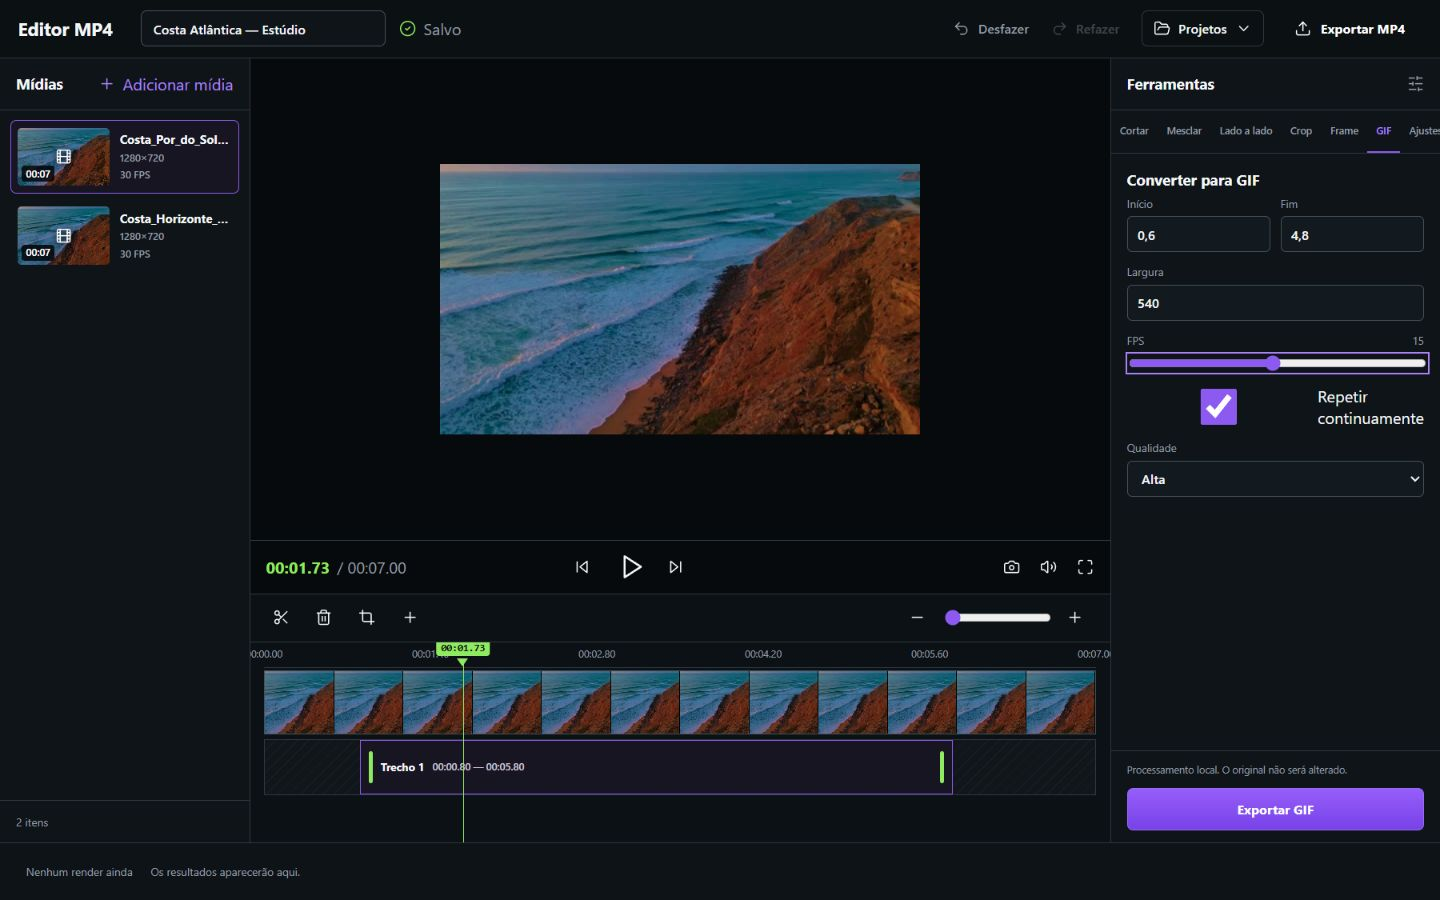
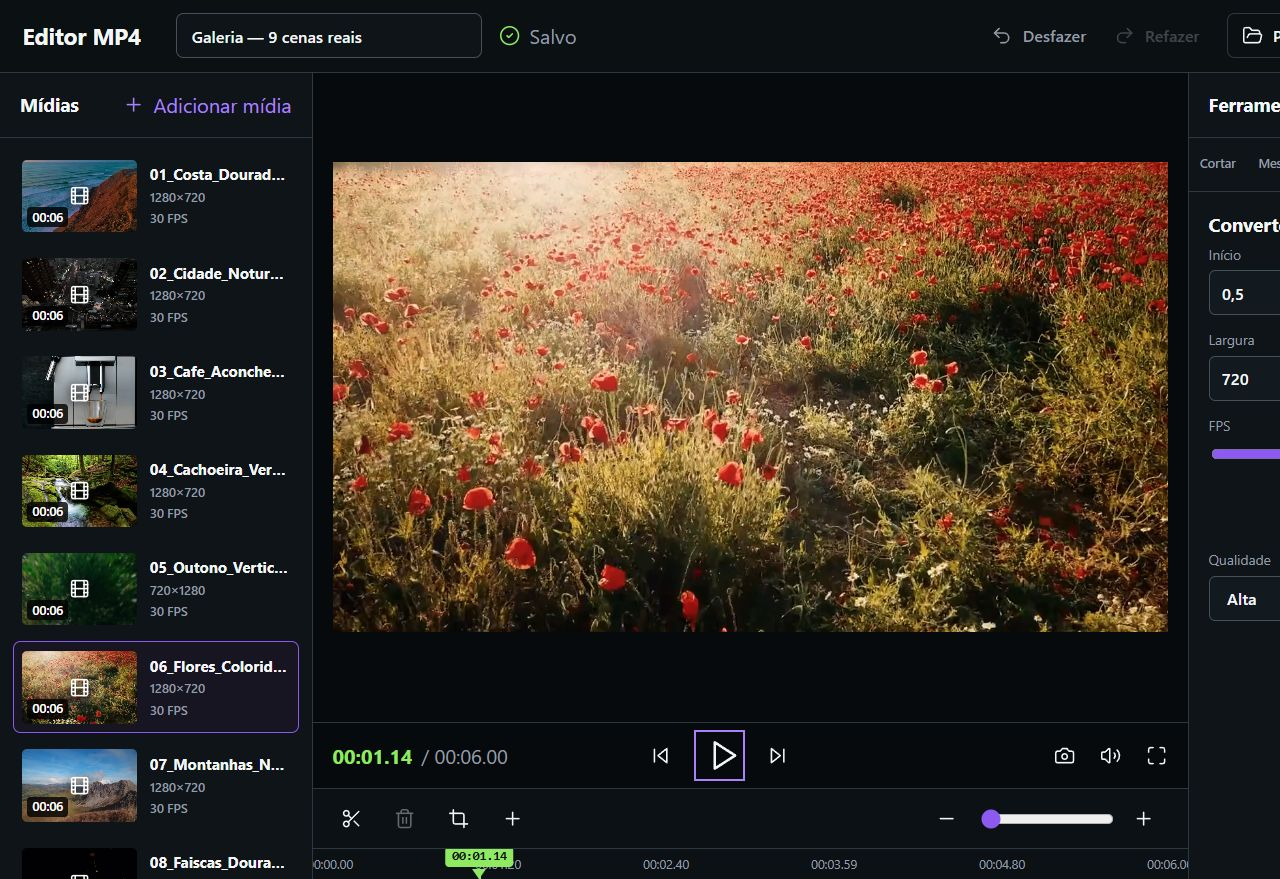
docs: replace repeated gallery with distinct scenes

diff --git a/README.md b/README.md
@@ -23,7 +23,7 @@ Editor de vídeo local e orientado a projetos. A interface é feita em React, os
 
 ## Galeria de recursos
 
-As imagens abaixo foram capturadas no aplicativo em execução com um vídeo real da costa atlântica ao pôr do sol. O MP4 de demonstração não faz parte do repositório.
+Cada imagem abaixo foi capturada no aplicativo em execução com uma cena diferente. A galeria alterna entre costa, cidade noturna, café, cachoeiras, flores, montanhas, faíscas e cozinha para deixar claro qual recurso está sendo demonstrado. Os MP4s de demonstração não fazem parte do repositório.
 
 | Corte e timeline | Mesclar vídeos |
 | --- | --- |
@@ -31,7 +31,7 @@ As imagens abaixo foram capturadas no aplicativo em execução com um vídeo rea
 
 | Lado a lado | Crop vertical |
 | --- | --- |
-| ![Composição lado a lado com divisor e pan](docs/screenshots/03-lado-a-lado-desktop.png) | ![Crop vertical com preset 4 por 5](docs/screenshots/04-crop-vertical-desktop.png) |
+| ![Composição lado a lado com divisor e pan](docs/screenshots/03-lado-a-lado-desktop.png) | ![Crop vertical com preset 9 por 16](docs/screenshots/04-crop-vertical-desktop.png) |
 
 | Extrair frame | Converter para GIF |
 | --- | --- |
@@ -95,12 +95,21 @@ Os arquivos originais nunca são alterados. O aplicativo trabalha com cópias ar
 
 A compatibilidade total com celulares ainda não está pronta. A validação em 390 × 844 encontrou overflow horizontal no shell; por isso, a captura mobile anterior foi removida e o trabalho está registrado na [issue #4](https://github.com/GuttoSP/MP4-Studio/issues/4). O desktop é a experiência recomendada nesta versão.
 
-## Mídia da galeria
+## Mídias da galeria
 
-- **Vídeo:** [Ocean, Sunset, Coastline](https://pixabay.com/videos/ocean-sunset-coastline-drone-174472/)
-- **Autor:** [ionela_v](https://pixabay.com/users/ionela_v-43656974/)
-- **Fonte e licença:** Pixabay, uso gratuito sob a [Pixabay Content License](https://pixabay.com/service/license-summary/)
-- **Uso neste repositório:** somente frames visíveis nos screenshots. O arquivo MP4 original e os recortes de QA permanecem fora do Git.
+| Captura | Cena usada | Fonte gratuita |
+| --- | --- | --- |
+| Corte e timeline | Costa atlântica ao pôr do sol | [Ocean, Sunset, Coastline](https://pixabay.com/videos/ocean-sunset-coastline-drone-174472/) |
+| Mesclar vídeos | Tráfego de uma cidade à noite | [Pixabay #21985](https://pixabay.com/videos/id-21985/) |
+| Lado a lado | Cachoeira verde e faíscas douradas | [Waterfall, Stream, Forest](https://pixabay.com/videos/waterfall-stream-forest-stock-171978/) e [Fire, Sparks, Particles](https://pixabay.com/videos/fire-sparks-particles-firesparks-84469/) |
+| Crop vertical | Cachoeira em floresta no formato vertical | [Waterfall, Trees, Forest](https://pixabay.com/videos/waterfall-trees-forest-autumn-208314/) |
+| Extrair frame | Café sendo preparado | [Pixabay #46989](https://pixabay.com/videos/id-46989/) |
+| Converter para GIF | Campo de flores ao sol | [Pixabay #16453](https://pixabay.com/videos/id-16453/) |
+| Ajustes de saída | Montanhas e nuvens | [Mountains, Clouds, Mountain Landscape](https://pixabay.com/videos/mountains-clouds-mountain-landscape-138276/) |
+| Render concluído | Preparo de alimentos na cozinha | [Cook, Potato, Potatoes](https://pixabay.com/videos/cook-potato-potatoes-food-14421/) |
+
+- **Fonte e licença:** todos os vídeos são do Pixabay e estão disponíveis para uso gratuito sob a [Pixabay Content License](https://pixabay.com/service/license-summary/).
+- **Uso neste repositório:** somente os frames visíveis nos screenshots são versionados. Os arquivos MP4, os recortes de QA e o banco SQLite da galeria permanecem fora do Git.
 
 ## Persistência local
 
